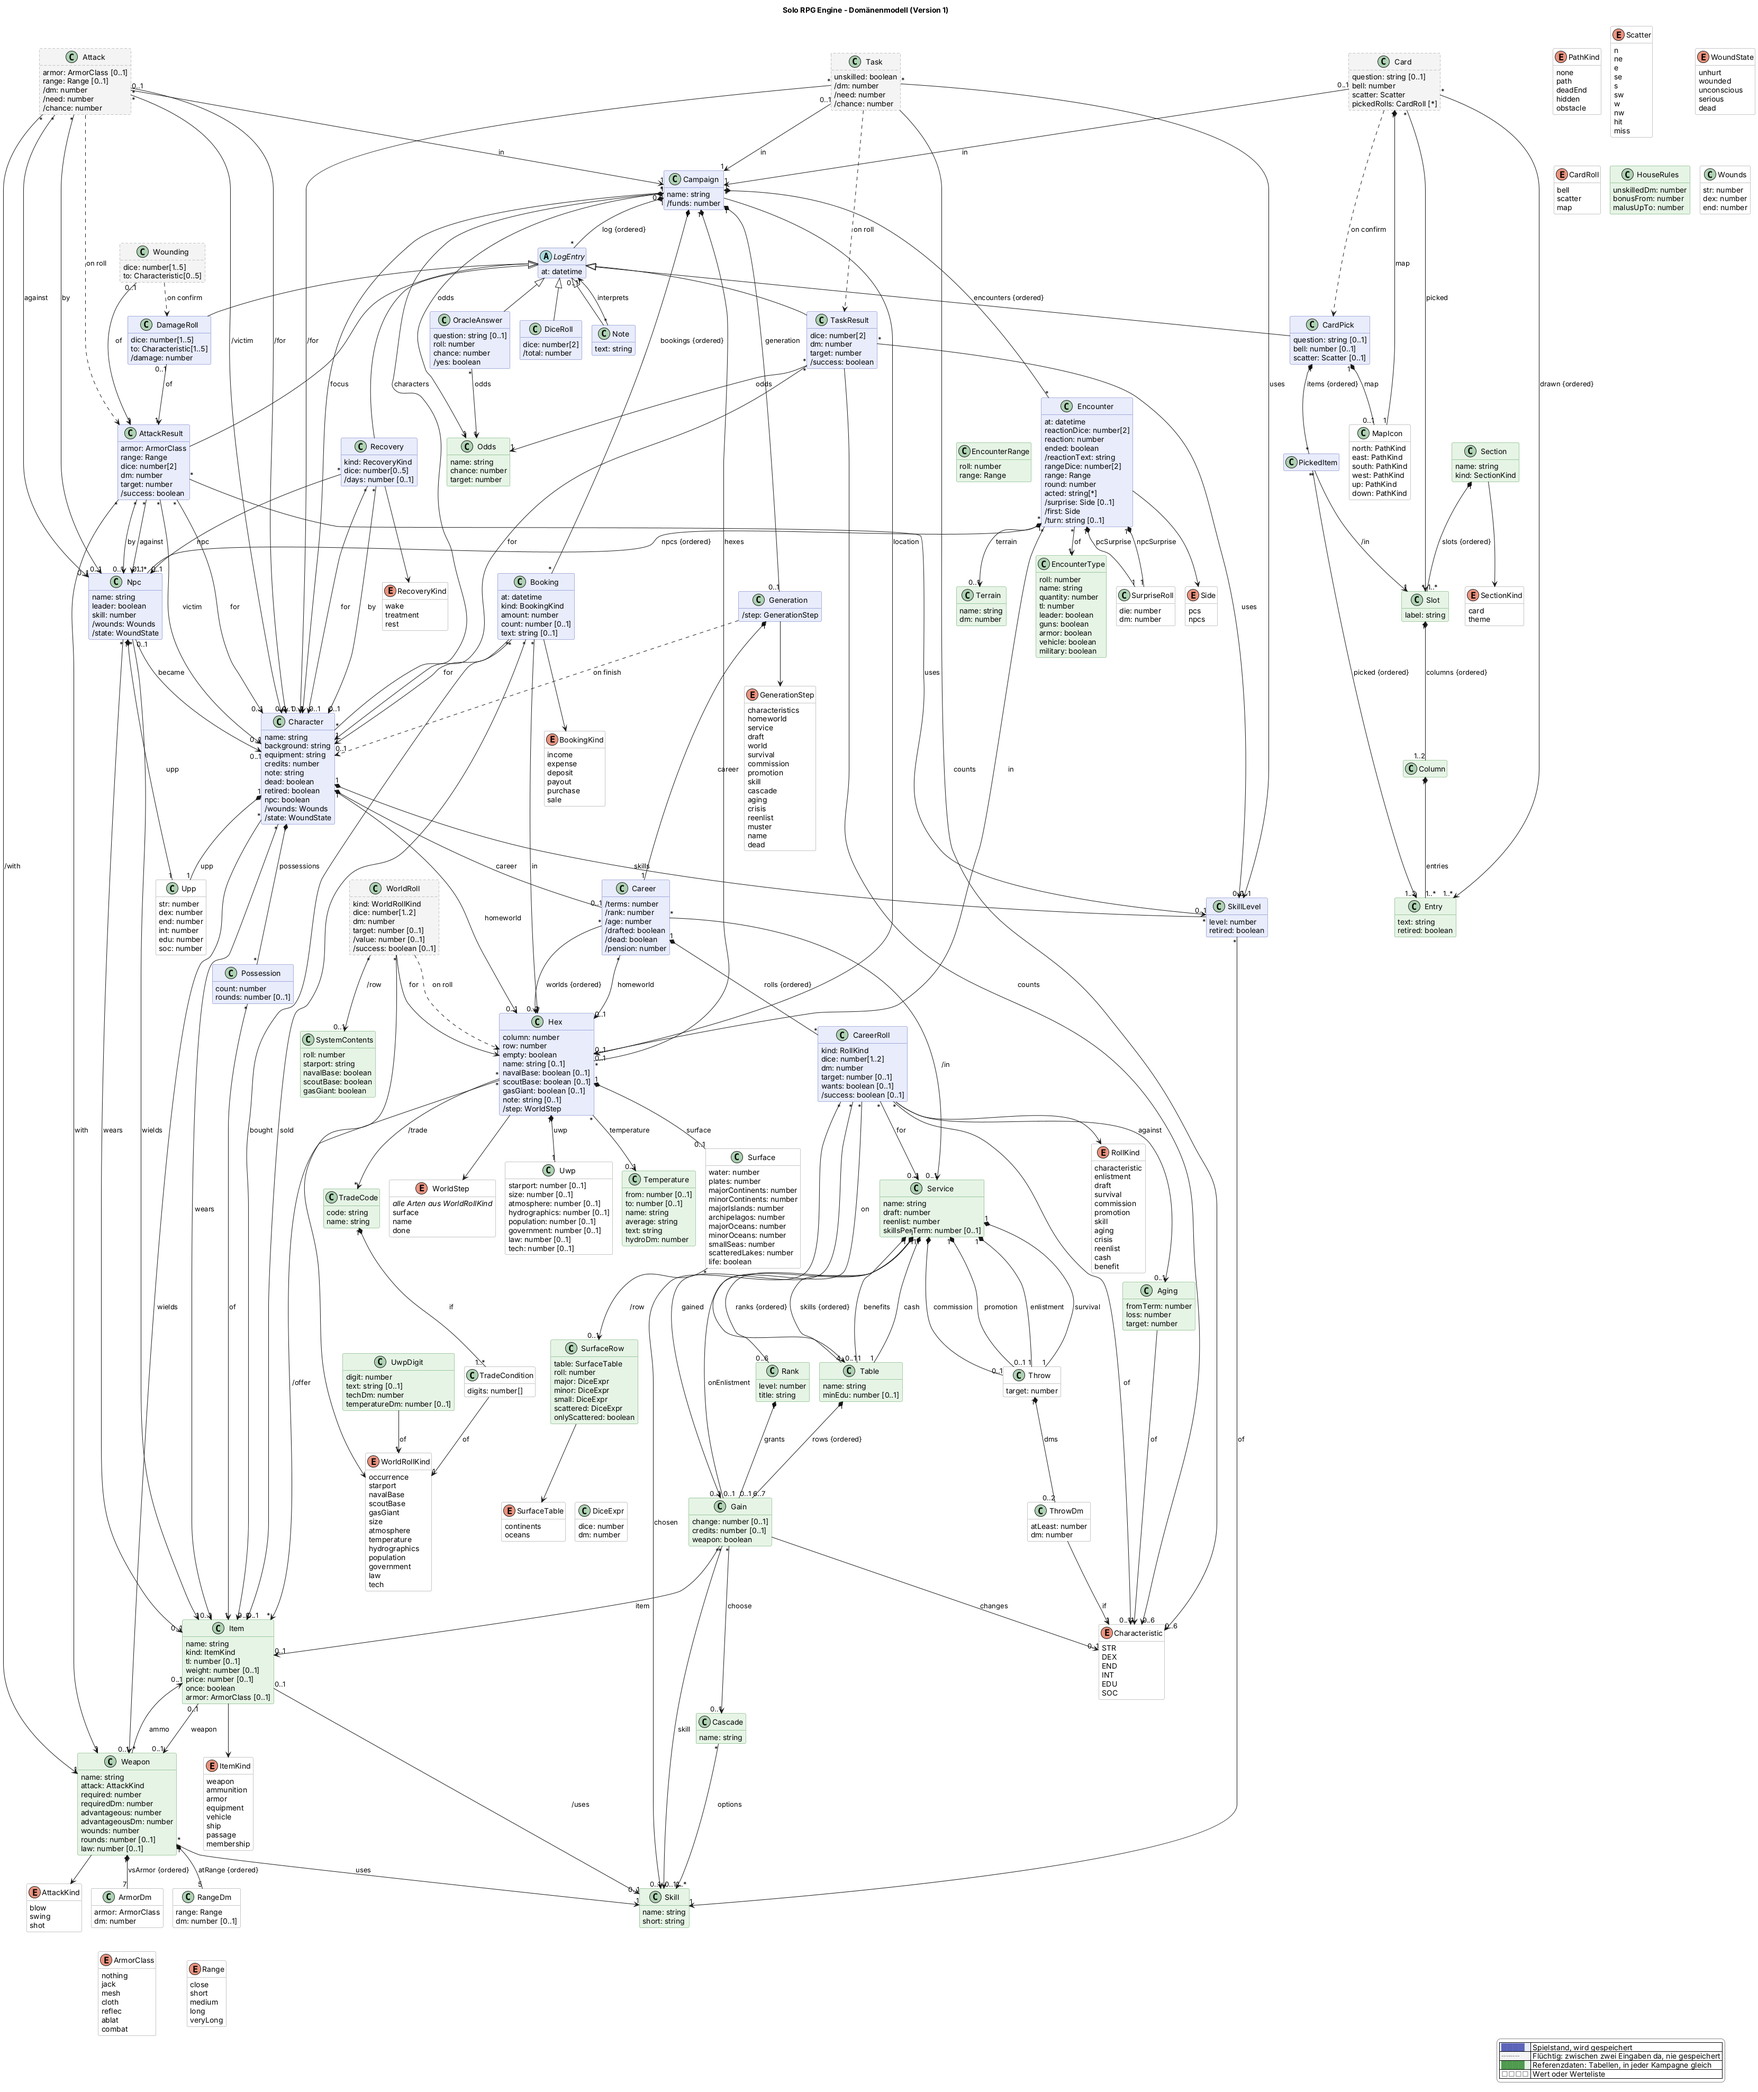
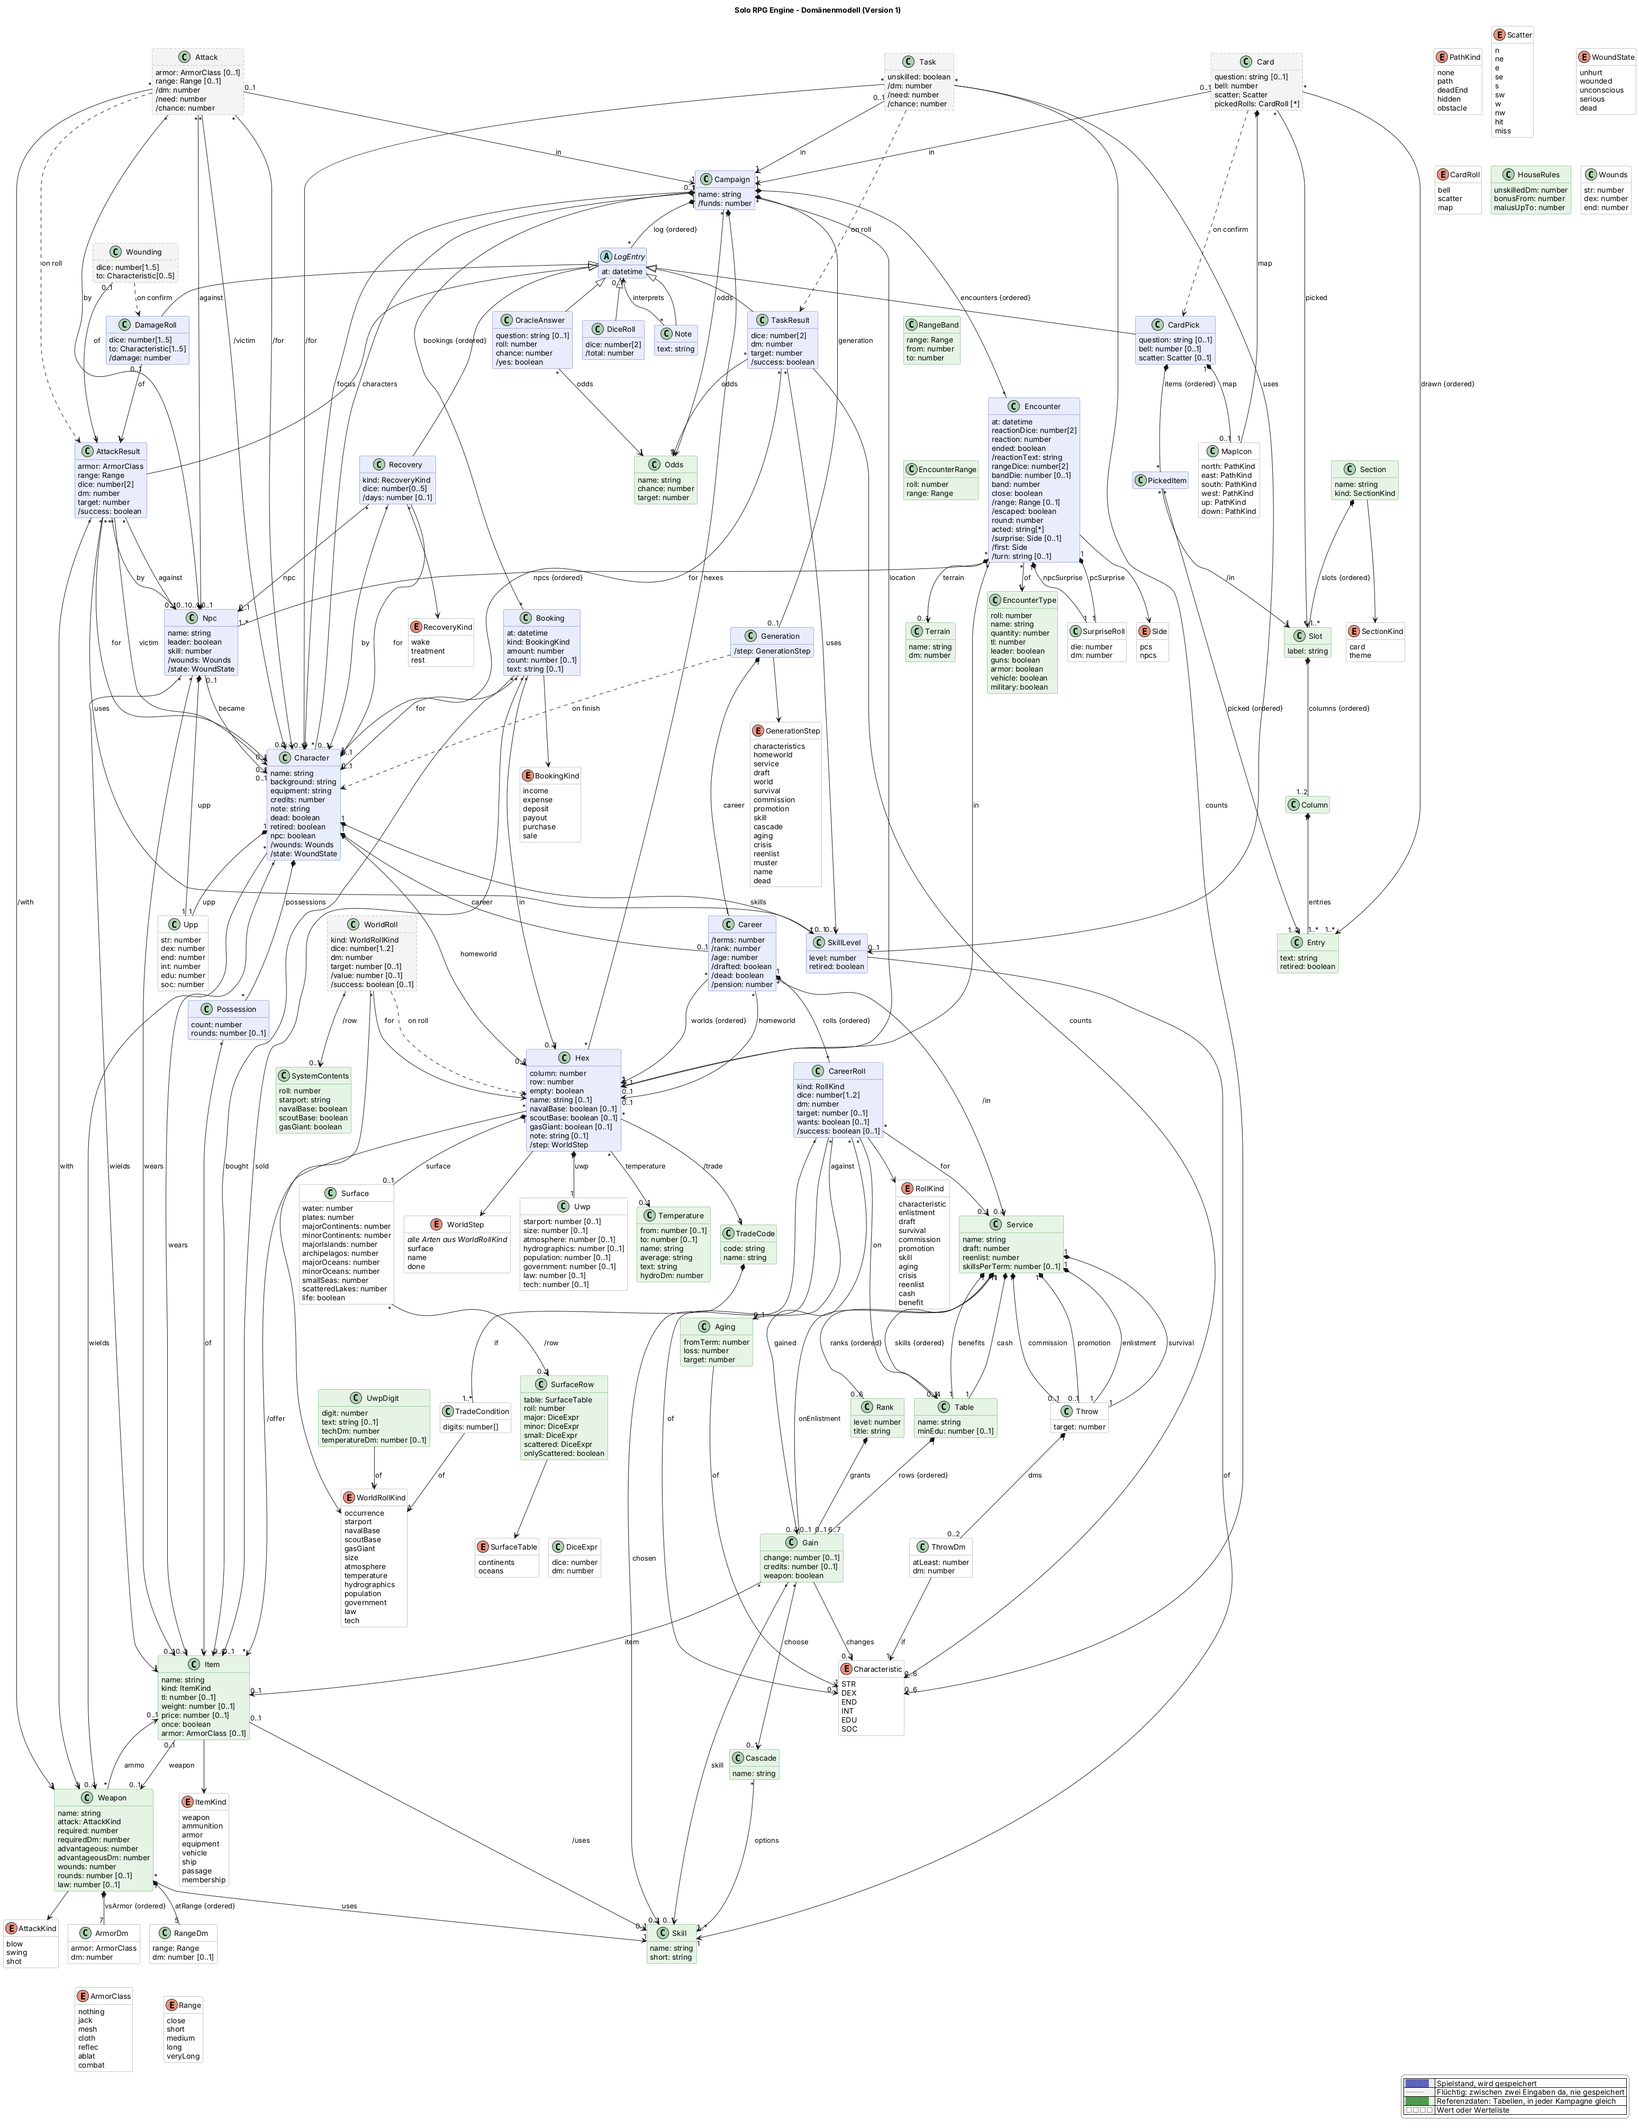
Domänenmodell: Entfernung in Range Bands (Vorschlag)
Encounter hält statt der Reichweite das Band (0–21), die Berührung und
den Würfel für das Startband; die Reichweite und "entkommen" sind
abgeleitet. Neu als Referenzdaten RangeBand. Wartet auf Freigabe.

Claude-Session: https://claude.ai/code/session_016ZF27wzgGfDhiPyEVM77yy

diff --git a/docs/domain-model.md b/docs/domain-model.md
@@ -120,6 +120,12 @@ Lücken unter [Wo der Code noch nicht folgt](#wo-der-code-noch-nicht-folgt).
 > (mit den sechs Namen), NSC-Aktionen, Welt (mit Schiff), Wesen und Handlung mit Mythics Elements-Tabellen. Alle übrigen Felder und Bereiche sind ausgeblendet, bis es
 > Einträge für sie gibt.
 
+> **Vorschlag vom 4. November 2026, wartet auf Freigabe:** die **Entfernung in Range Bands** (siehe
+> *Kampfsimulation*). Neu im Bild: an der `Encounter` statt `range` das Band (`band`), die Berührung
+> (`close`), der Würfel für das Startband (`bandDie`), abgeleitet die Reichweite (`/range`) und
+> `/escaped`; als Referenzdaten `RangeBand`. Der UI-Entwurf dazu (freigegeben am 4. November 2026)
+> liegt unter [`ui-entwurf/range-bands/`](ui-entwurf/range-bands/).
+
 ![Domänenmodell der Solo RPG Engine](domain-model.png)
 
 Die Quelle ist [`domain-model.puml`](domain-model.puml) (PlantUML). Nach jeder Änderung das Bild neu
@@ -209,7 +215,11 @@ Vacc Suit, Jack-of-all-Trades, …), Terms, Cr.
 | Zustand | `/state`, `WoundState` | unverletzt, verwundet, bewusstlos (ein Attribut auf 0), schwer verwundet (zwei), tot (drei) |
 | Waffentabelle | (Modus des Reiters Kampf) | Die Tabelle der Waffe in der Hand mit frei gewählter Rüstung und Reichweite, ohne Begegnung |
 | Kampfsimulation | (Modus des Reiters Kampf) | Der Kampf einer laufenden Begegnung: Entfernung, Überraschung, Runden und Züge |
-| Entfernung | `Encounter.range` | Wie weit die Parteien auseinander sind; gilt für jeden Angriff der Begegnung |
+| Entfernung | `Encounter.band`, `close`, `/range` | Wie weit die Parteien auseinander sind, in Range Bands; gilt für jeden Angriff der Begegnung |
+| Range Band | `RangeBand`, `Encounter.band` | Ein Abschnitt von etwa 25 m (Book 1, S. 32; Charts S. 7): Close und Short Band 0, Medium 1–2, Long 3–10, Very Long 11–20 |
+| Berührung | `Encounter.close` | Close: Die Parteien sind auf Band 0 in Berührung; sonst ist Band 0 Short |
+| Startband | `Encounter.bandDie` | Der Würfel, der das Band innerhalb der gewürfelten Reichweite bestimmt: Medium 1W2, Long 1W8, Very Long 1W10 |
+| Entkommen | `Encounter./escaped` | Mehr als 20 Bands Abstand: Die Parteien haben sich verloren (Book 1, S. 33) |
 | Gelände | `Terrain` | Wo die Begegnung stattfindet, mit DM auf die Entfernung (S. 5), z. B. Clear +3, City −4 |
 | Überraschung | `pcSurprise`, `npcSurprise`, `/surprise` | 1W6 je Partei mit DMs (S. 5); wer 3 oder mehr höher liegt, hat Überraschung |
 | Partei | `Side` | Die SC (`pcs`) oder die NSC der Begegnung (`npcs`) |
@@ -613,8 +623,24 @@ Vacc Suit, Jack-of-all-Trades, …), Terms, Cr.
   - *Entfernung*: Beim Anlegen der Begegnung 2W6 plus DM des Geländes (`terrain`, wählbar, ohne
     Gelände ±0) auf die Encounter Ranges (S. 5): 1 Short, 2 Close, 3 Short, 4 Medium, 5 Short,
     6 Medium, 7 Medium, 8 Long, 9 Medium, 10 Very Long, 11 Long, 12 Very Long; unter 1 gilt 1, über
-    12 gilt 12. Die Würfel (`rangeDice`) bleiben; die Entfernung (`range`) lässt sich jederzeit
-    ändern (näherkommen, zurückweichen) und gilt für jeden Angriff der Begegnung.
+    12 gilt 12. Die Würfel (`rangeDice`) bleiben.
+  - *Range Bands* (Book 1, S. 32–33; Charts S. 7): Die Entfernung wird in Bands von etwa 25 m
+    gehalten. Alle SC stehen zusammen, alle NSC auch; es gibt nur einen Abstand (`band`, 0–21).
+    Welche Reichweite ein Band ist, sagt `RangeBand`: Close und Short 0, Medium 1–2, Long 3–10,
+    Very Long 11–20. Auf Band 0 unterscheidet `close`, ob die Parteien in Berührung sind (Close)
+    oder nicht (Short); auf jedem anderen Band ist `close` falsch. Daraus folgt die Reichweite
+    (`/range`), die für jeden Angriff der Begegnung gilt. Band 21 heißt mehr als 20 Bands: Die
+    Parteien sind entkommen (`/escaped`), es gibt keine Reichweite und keinen Angriff; die
+    Begegnung läuft weiter, bis man sie beendet oder wieder näher rückt.
+  - *Startband* (Hausregel, gleichverteilt): Ergibt der Wurf Close, beginnt die Begegnung auf Band 0
+    mit Berührung, bei Short auf Band 0 ohne. Bei Medium, Long und Very Long bestimmt ein weiterer
+    Würfel (`bandDie`) das Band innerhalb der Reichweite: Medium 1W2 (Band 1–2), Long 1W8 (Band
+    2 + Würfel, also 3–10), Very Long 1W10 (Band 10 + Würfel, also 11–20). Bei Close und Short gibt
+    es keinen Würfel.
+  - *Bewegen*: Der Spieler bewegt die Parteien selbst, um ein Band je Schritt: näher (von Band 0 ohne
+    Berührung in die Berührung, von Band 1 auf Band 0) oder weiter weg (aus der Berührung auf Band 0
+    ohne, dann Band für Band bis 21). Er kann das Band auch direkt setzen. Das ist kein Zug und
+    jederzeit möglich; wer wie weit gelaufen ist, hält das Modell nicht fest.
   - *Überraschung* (S. 5): beim Anlegen 1W6 je Partei (`pcSurprise`, `npcSurprise`) mit DMs:
     Battle Dress getragen +2; Leader-Fertigkeit +1 (bei NSC: ein Anführer); Tactics +1; militärische
     Erfahrung (SC aus Army oder Marines, NSC einer militärischen Art: Soldiers, Marines, Security
@@ -636,7 +662,9 @@ Vacc Suit, Jack-of-all-Trades, …), Terms, Cr.
     Runde nicht mehr dran.
   - Ist eine Partei ganz außer Gefecht (alle bewusstlos, schwer verwundet oder tot), ist der Kampf
     entschieden; die Begegnung läuft weiter, bis man sie beendet.
-  - **Später**: Flucht (S. 5), Moral, Bewegung in Range Bands, Deckung, mehrere Gegnergruppen.
+  - **Später**: Flucht (S. 5), Moral, Bewegungsstatus je Runde nach Book 1 (Laufen 2 Bands ohne
+    Angriff und mit einem Combat Blow, Evade), Bewegung je Kämpfer statt je Partei, Tiere mit ihrer
+    Geschwindigkeit (S. 19), Deckung, mehrere Gegnergruppen.
 - **Heilung.** Nach S. 7. Eine Heilung ist ein Logeintrag (`Recovery`) für einen verwundeten SC
   (`for`) oder NSC der laufenden Begegnung (`npc`), nie für einen Toten. Die Wunden (`/wounds`)
   folgen aus Schadenswürfen und Heilungen im Log, der Reihe nach; eine Heilung löschen nimmt sie
@@ -1080,3 +1108,7 @@ Diagramm mit diesen Ausnahmen:
   Reyl aus der README (`src/data/examples.json`), damit man gleich etwas ausprobieren kann. Das
   Modell sagt dazu nichts; die beiden lassen sich löschen, solange der Log nicht auf sie verweist.
   Jede weitere Kampagne beginnt leer.
+- **Range Bands** (sobald freigegeben). Der Code hält an der `Encounter` noch die Reichweite
+  (`range`) statt `band`, `close` und `bandDie`, kennt `RangeBand` nicht und zeigt die Entfernung
+  als fünf Knöpfe. Gespeicherte Begegnungen bekommen beim Laden das Band ihrer Reichweite (Close:
+  Band 0 mit Berührung, Short 0, Medium 1, Long 3, Very Long 11) und keinen `bandDie`.
